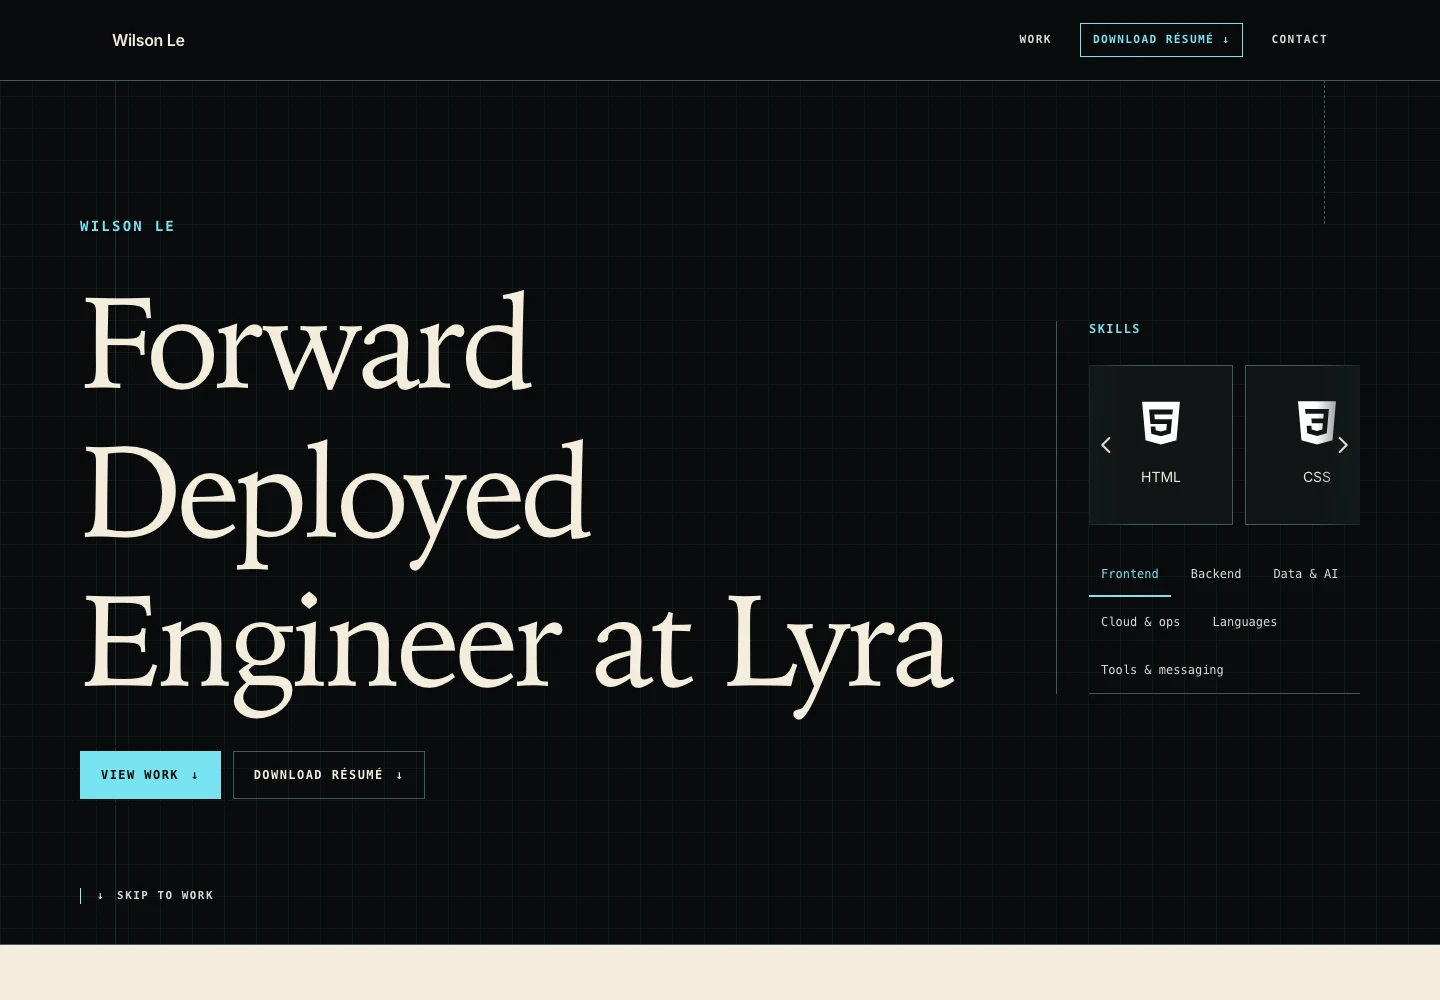
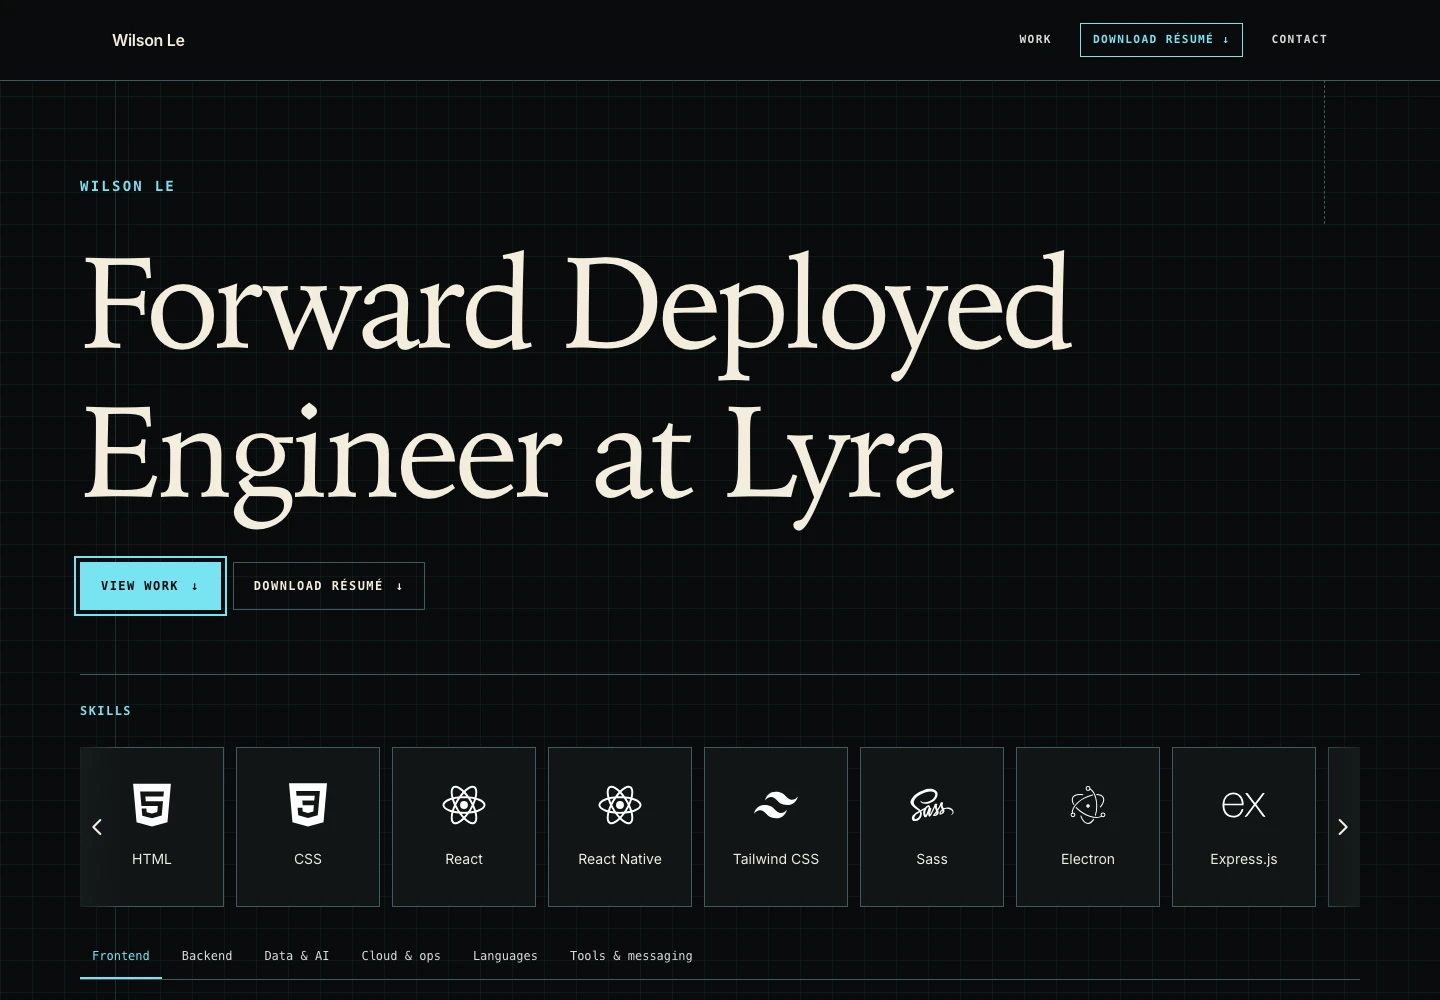
Stack Skills below the hero at every breakpoint (#36)

diff --git a/src/components/sections/HeroSection.tsx b/src/components/sections/HeroSection.tsx
@@ -26,7 +26,7 @@ export function HeroSection({ basePath, hero, siteSettings }: HeroSectionProps) 
       />
 
       <div className="relative mx-auto flex min-h-[calc(min(58rem,100svh)-9.5rem)] max-w-7xl flex-col justify-between">
-        <div className="grid flex-1 items-center gap-12 py-8 lg:grid-cols-[minmax(0,1.5fr)_minmax(16rem,0.5fr)] lg:gap-16 lg:py-12">
+        <div className="grid flex-1 items-center gap-12 py-8 lg:gap-16 lg:py-12">
           <div className="min-w-0">
             <p className="font-label mb-8 text-xs font-semibold uppercase tracking-[0.16em] text-signal sm:text-sm">
               {hero.identity}
@@ -60,7 +60,7 @@ export function HeroSection({ basePath, hero, siteSettings }: HeroSectionProps) 
             </div>
           </div>
 
-          <aside className="min-w-0 border-t border-rule pt-7 lg:border-l lg:border-t-0 lg:pl-8 lg:pt-0">
+          <aside className="min-w-0 border-t border-rule pt-7">
             <TechStackCarousel stack={hero.stack} />
           </aside>
         </div>

diff --git a/docs/evidence/portfolio-polish/README.md b/docs/evidence/portfolio-polish/README.md
@@ -29,6 +29,7 @@ Project-only captures, including mobile Work, omit the fixed site header to keep
 - [Sticky and bottom tabs, desktop](project-tabs-bottom-desktop.webp)
 - [Sticky and bottom tabs, mobile](project-tabs-bottom-mobile.webp)
 - [Skills stream at the commented width](skills-strip-tablet.webp)
+- [Full-width Skills beneath the hero, reported 1119px width](hero-reported-width.webp)
 - [Corrected hero, desktop](hero-desktop.webp)
 - [Corrected hero, mobile](hero-mobile.webp)
 - [Kalibr, desktop](kalibr-desktop.webp)
@@ -62,10 +63,12 @@ No database, CMS, deployment, or production state changes are part of this deliv
 
 ## Skills carousel and project tabs
 
-The hero metadata block becomes Skills: the same 36 résumé technologies, with local icons and names in a continuous left-to-right stream. Gray-shaded chevrons at the far edges appear on hover, a touch tap or keyboard focus, and skip individual skills. Six named tabs below skip sections. Play/Pause labels are removed. Hover temporarily pauses; focus, touch and manual selection stop motion persistently. Reduced motion and offscreen/background-page handling remain. Duplicate runs are hidden from accessibility; no-JavaScript visitors receive six static lists. Icon source revisions, hashes and licenses are in `public/skills/` and [showcase provenance](../product-showcases.md).
+Skills sits in a full-width row below the hero heading and CTA buttons at every screen size: the same 36 résumé technologies, with local icons and names in a continuous left-to-right stream. Gray-shaded chevrons at the far edges appear on hover, a touch tap or keyboard focus, and skip individual skills. Six named tabs below skip sections. Play/Pause labels are removed. Hover temporarily pauses; focus, touch and manual selection stop motion persistently. Reduced motion and offscreen/background-page handling remain. Duplicate runs are hidden from accessibility; no-JavaScript visitors receive six static lists. Icon source revisions, hashes and licenses are in `public/skills/` and [showcase provenance](../product-showcases.md).
 
 Work synchronizes two selectors. The top bar sticks below the header in a horizontally scrollable single row. Bottom selection retains its screen position and focus when project heights change. Top selection reveals the introduction with normal smooth/reduced-motion behavior. Project/feature hashes, locale/query paths and Back/Forward remain usable; each native history entry saves its selection while preserving Next's fields. No-JavaScript visitors see all articles. Footer location is removed. Pangea emphasizes team leadership and the feedback-to-spec-to-feature pipeline.
 
 Six navigation checks cover real horizontal movement, icon loading, pause conditions, item/section skipping, chevron hover/tap/keyboard discovery, sticky positioning, bottom viewport stability, deep links/history and fallbacks. Typography checks still measure intrinsic label widths and line-ink separation inside the intentional horizontal loops/tab rails; only their page-edge text comparisons are excluded. Document overflow and ordinary text bounds remain checked. A Vulcan tab initially clamped its enlarged unwrapped label; retaining its natural width makes it readable through the rail.
 
 Author checks reproduced completed entrances restarting after panel restoration and the former wrapping selector placing focus below a short/enlarged viewport. Completion markers prevent replay; the current sticky single-row rail keeps focus reachable. Independent pass1 at0164e86 found Back to the initial unqualified URL retaining Pangea. The added regression fails there, then passes with saved per-entry selections, including a native Contact hash. A document-identity regression also catches an unwanted Next reload when that native hash entry originally has null state; retained router metadata prevents it. Review history and final clearance remain in PR#34.
+
+The follow-up to issue #35 removes the desktop split entirely. Geometry checks at 375/867/1119/1440/1920px confirm Skills begins below the introduction and matches its content width, with zero document overflow. Hero/Skills screenshots now capture the stacked layout; the existing 30 frontend, navigation and typography checks pass against its production build.

diff --git a/docs/evidence/product-showcases.md b/docs/evidence/product-showcases.md
@@ -59,7 +59,7 @@ Pangea's fourth contribution bullet now describes spearheading agentic software 
 
 ## Skills carousel
 
-The previous hero title/location/social metadata block becomes Skills. The same 36 technologies come from the approved `skillStack` in the full résumé at revision `f9d1363`, grouped into Frontend, Backend, Data & AI, Cloud & ops, Languages, and Tools & messaging. No skill or proficiency is invented. AWS/Google Cloud Platform abbreviate the source's cloud-provider entries. The concise PDF is unchanged.
+Skills spans the full hero content width beneath the heading and CTA buttons at every breakpoint; desktop uses the same single-column arrangement as mobile. The same 36 technologies come from the approved `skillStack` in the full résumé at revision `f9d1363`, grouped into Frontend, Backend, Data & AI, Cloud & ops, Languages, and Tools & messaging. No skill or proficiency is invented. AWS/Google Cloud Platform abbreviate the source's cloud-provider entries. The concise PDF is unchanged.
 
 Icons and names form one continuous horizontal stream moving left to right at 24 CSS pixels per second. Three identical runs make wrapping seamless; duplicate runs are excluded from accessibility. Gray-shaded edge chevrons skip one skill and appear on mouse hover, a touch tap (four seconds), or keyboard focus. The Play/Pause controls and category-grid slides are removed. Named tabs below jump to each group's first skill. Hover temporarily stops motion; focus, touch and manual selection stop it persistently. Reduced motion, offscreen content and background pages disable automatic movement. Manual controls reach every skill. Without JavaScript, six static category lists expose all 36 names through native anchors.
 
